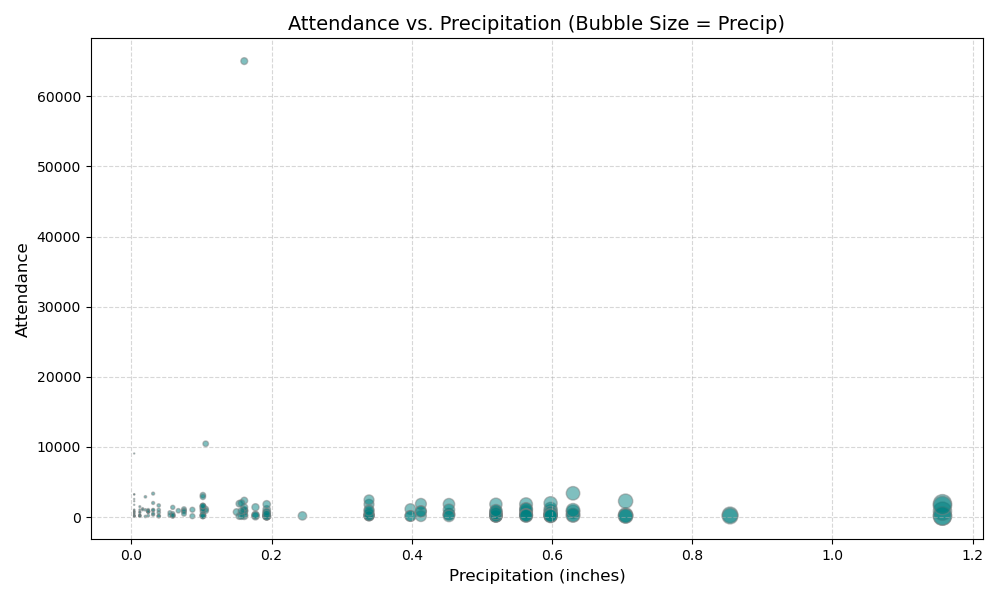
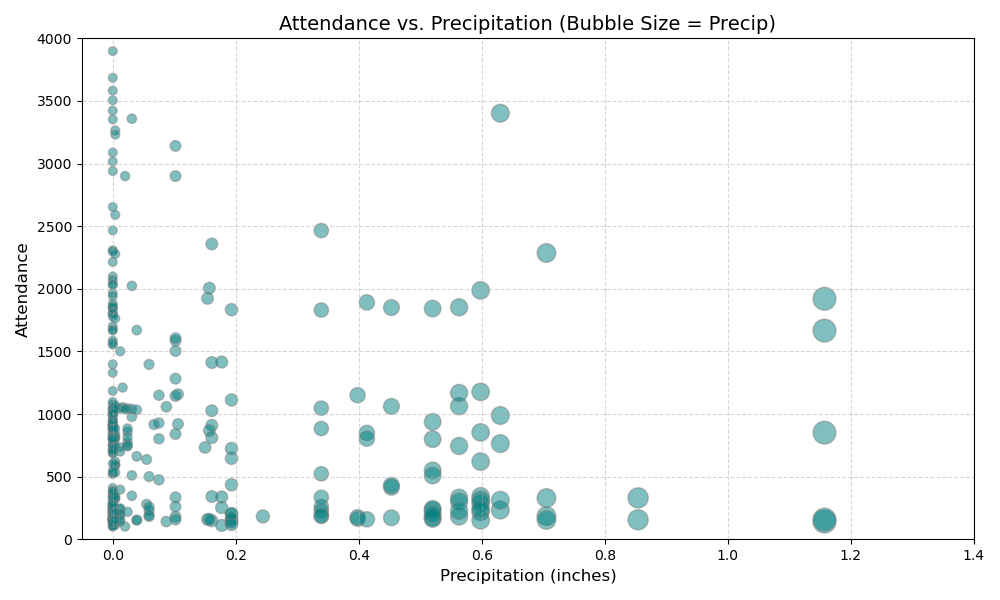
zoomed in on data vis

diff --git a/datavis.py b/datavis.py
@@ -21,7 +21,7 @@ def calculate_averages():
     rows = cur.fetchall()
     conn.close()
 
-    # Data prep
+    
     attendance = [row[0] for row in rows]
     temp_mean = [row[1] for row in rows]
     precipitation = [row[2] for row in rows]
@@ -30,32 +30,46 @@ def calculate_averages():
 
 def create_visualizations(attendance, temp_mean, precipitation):
 
-    # --- Vis 1: Scatter plot showing no strong correlation (Attendance vs Temp) ---
+    # scaterplot (Attendance vs Temp) 
     plt.figure(figsize=(10, 6))
     plt.scatter(temp_mean, attendance, alpha=0.4, edgecolor='gray', color='slateblue')
-    
+
     plt.title('Attendance vs. Temperature', fontsize=14)
     plt.xlabel('Mean Temperature (°F)', fontsize=12)
     plt.ylabel('Attendance', fontsize=12)
     plt.grid(True, linestyle=':', linewidth=0.7)
+    
+
+    plt.xlim(0, 70)      
+    plt.ylim(0, 5000)     
+
+
     plt.tight_layout()
     plt.savefig('attendance_vs_temp.png')
     plt.show()
 
-    # --- Vis 2: Bubble plot (Precipitation vs Attendance) ---
+
+    # Bubble Plot (Precipitation vs Attendance) 
     plt.figure(figsize=(10, 6))
-    bubble_size = [p * 150 for p in precipitation]  # scale precipitation to size
+    bubble_size = [(p + 0.2) * 200 for p in precipitation]
     plt.scatter(precipitation, attendance, s=bubble_size, alpha=0.5, c='teal', edgecolor='gray')
 
     plt.title('Attendance vs. Precipitation (Bubble Size = Precip)', fontsize=14)
     plt.xlabel('Precipitation (inches)', fontsize=12)
     plt.ylabel('Attendance', fontsize=12)
     plt.grid(True, linestyle='--', alpha=0.5)
+
+ 
+    plt.xlim(-0.05, 1.4)     
+    plt.ylim(0, 4000)      
+
+
     plt.tight_layout()
     plt.savefig('bubble_attendance_vs_precip.png')
     plt.show()
 
-    # --- Vis 3: Horizontal Bar (Average Attendance by Temp Range) ---
+
+    # Horizontal Bar (Average Attendance by Temp Range) 
     temp_bins = {
         'Cold (≤40°F)': [],
         'Cool (41–55°F)': [],
